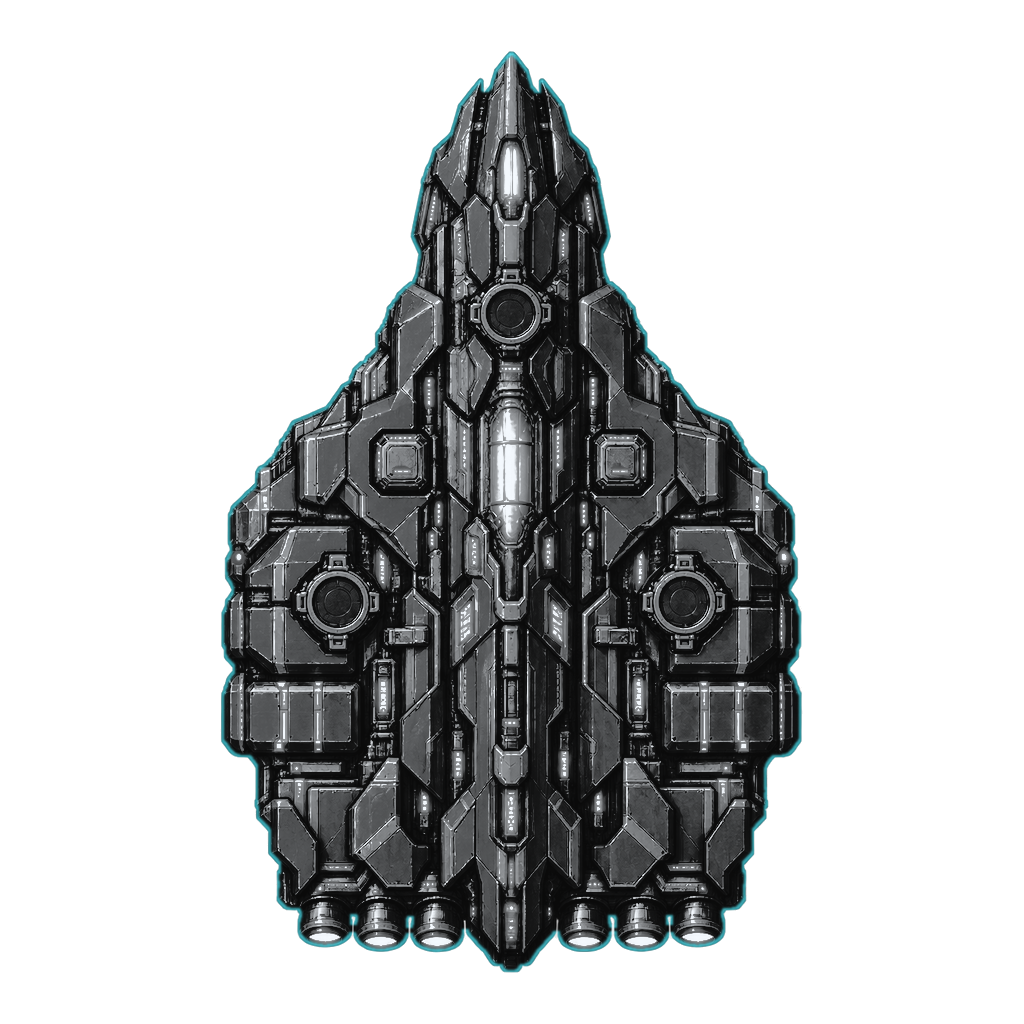
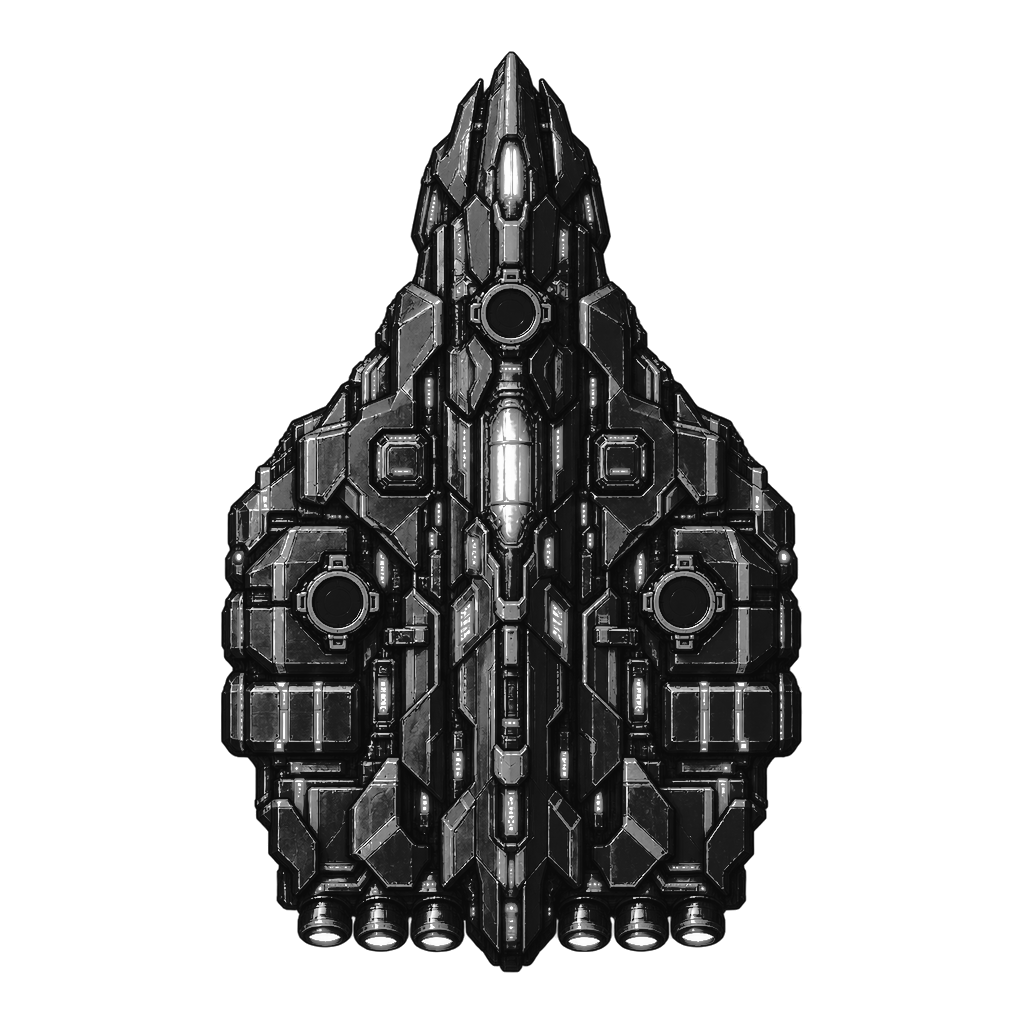
v43 art: Varn mostly-black two-tone, Ironclad military-police green camo
Claude-Session: https://claude.ai/code/session_01N5CSf1dkfjAF1MgcPiT3C1

Changed region(s): [[0.2188, 0.0625, 0.7812, 0.9688]]

diff --git a/src/genpolice43.py b/src/genpolice43.py
@@ -21,6 +21,7 @@ DGREEN = np.array([40, 120, 58.0])
 LGOLD = np.array([255, 228, 150.0])
 AURA = np.array([110, 170, 255.0])
 VIOLET = np.array([70, 30, 110.0])
+MGREEN = np.array([64, 90, 48.0])
 
 
 def roster():
@@ -99,13 +100,26 @@ def accent(fac, orig, pol, name):
         o = o * np.minimum(1.0, 150.0 / np.maximum(mx, 1))            # bright nozzles flattened: no propulsion
         out = o * 0.50 + VIOLET[None, None, :] * 0.30 * (L[..., None] / 255.0 + 0.15)
     elif fac == 'varn':
-        k = band(m, 3.5 * S) * inside
-        out = mix(out, CYAN, k * 0.95, 0.8 + 0.2 * (L / 255.0))
+        # owner 03:38: plain white/black, mostly black (~70/30): threshold at the 70th luminance percentile
+        mx = orig[..., :3].max(-1); mn = orig[..., :3].min(-1)
+        paint = g.smooth((mx - mn) / np.maximum(mx, 1), 0.12, 0.30)
+        thr = float(np.percentile(L[a > 32], 70)) if (a > 32).any() else 128.0
+        white = 255.0 * (L / 255.0) ** 0.5
+        black = 0.30 * L + 8
+        tw = g.smooth(L, thr - 18, thr + 18) * (1 - 0.5 * paint)
+        v = tw * white + (1 - tw) * black
+        out = np.repeat(v[..., None], 3, -1)
     elif fac == 'ironclad':
-        outer = band(m, 10 * S)
-        inner = np.clip(band(m, 22 * S) - outer, 0, 1)
-        out = mix(out, DGREEN, inner * 0.90 * inside, 0.75 + 0.5 * (L / 255.0))
-        out = mix(out, DGOLD, outer * inside, 0.8 + 0.5 * (L / 255.0))
+        # owner 03:38: military police: dark green hull with black camo blotches (light bar added in game)
+        lo, hi = np.percentile(L[a > 32], [3, 97]) if (a > 32).any() else (0, 255)
+        v = 0.10 + 1.30 * np.clip((L - lo) / max(hi - lo, 1), 0, 1) ** 1.15
+        out = np.clip(MGREEN[None, None, :] * v[..., None], 0, 255)
+        rng = np.random.RandomState(zlib.crc32(name.encode()) & 0xffff)
+        cells = 18
+        nz = Image.fromarray((rng.rand(cells, cells) * 255).astype(np.uint8), 'L').resize((w, h), Image.BICUBIC)
+        nz = np.asarray(nz.filter(ImageFilter.GaussianBlur(max(h, w) / cells * 0.35)), float) / 255.0
+        spot = g.smooth(nz, 0.60, 0.64) * inside
+        out = mix(out, np.array([18, 20, 16.0]), spot * 0.80, 0.5 + 1.0 * (L / 255.0))
     elif fac == 'helion':
         k = band(m, 7 * S) * inside
         out = mix(out, LGOLD, k * 0.65, 0.85 + 0.15 * (L / 255.0))
